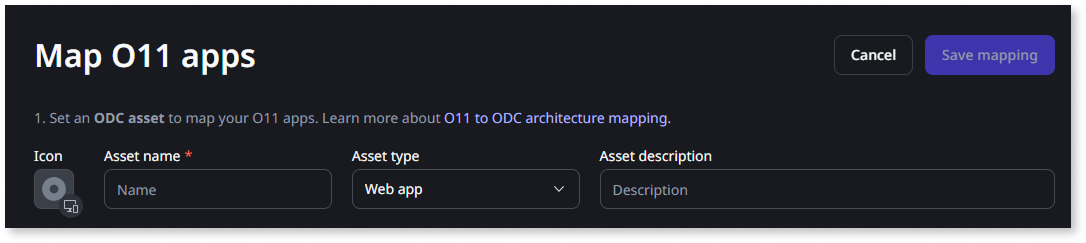
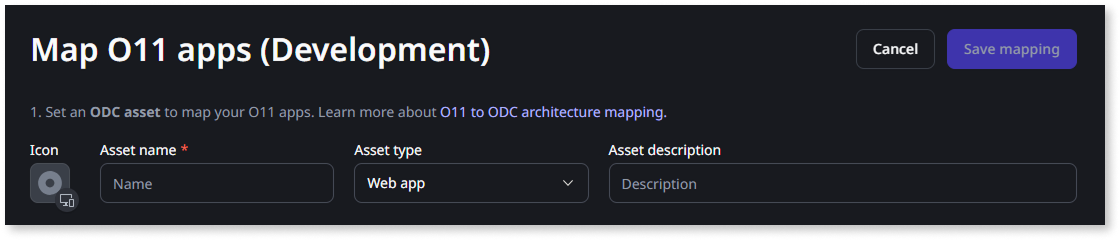
Progressive MAT small improvements and fixes TK-16567

diff --git a/src/migration-to-odc/plan/plan-map-apps.md b/src/migration-to-odc/plan/plan-map-apps.md
@@ -102,40 +102,38 @@ After adapting your O11 architecture, you are ready to start using the Migration
 
 ![Diagram showing the Map O11 apps to ODC architecture step in the migration process.](images/prep-map-o11-odc-arch-diag.png "Map O11 apps to ODC architecture")
 
-Now, it’s time to define each of the future ODC Assets (apps and libraries) and map your O11 apps in the Migration Assessment Tool. The mapping is always based on the O11 Apps available in your Development Environment.
+Now, it’s time to define each of the future ODC Assets (apps and libraries) and map your O11 apps in the Migration Assessment Tool.
 
 <div class="info" markdown="1">
 
+* The mapping is always based on the O11 Apps available in your **Development Environment**.
 * Currently, you can’t map an O11 **Extension** into any ODC Asset type.
-* For **ODC Libraries**, you can only map O11 Apps that only contain O11 Library Modules. Make sure you convert all O11 Modules of O11 Apps you want to map to an ODC Library to O11 Library Modules.
+* For **ODC Libraries**, you can only map O11 Apps that contain only O11 Library Modules. Thus, for the O11 Apps that you want to map to an ODC Library, make sure you convert all O11 Modules to O11 Library Modules.
 
 </div>
 
 To map your O11 Apps into ODC Assets, follow these steps:
 
-1. In the Assessment Tool, create each of the future ODC Apps and Libraries, and map them to your O11 apps. For now you aren't able to map Extensions. Do the following:
+1. Log into the Migration Assessment Tool console (`https://<mat_console_environment>/MigrationAssessment/`) using your IT User credentials.
 
-    1. Log into the Migration Assessment Tool console (`https://<mat_console_environment>/MigrationAssessment/`) using your IT User credentials.
+1. In the **ODC Blueprint** tab, click **Map O11 apps (Development)**.
 
-    1. In the **ODC Blueprint** tab, select Map O11 apps.
+1. Create an ODC asset to map your O11 apps:
+    * Set the **Asset name**. Make sure you follow the [ODC naming best practices](https://www.outsystems.com/tk/redirect?g=4f33c44e-316d-43b3-9929-221138d053be)
+    * Set the **Asset type**.
+    * Optionally, set the **Asset description**.
 
-    1. Create an ODC asset to map your O11 apps:
-        * Set the **Asset name**. Make sure you follow the [ODC naming best practices](https://www.outsystems.com/tk/redirect?g=4f33c44e-316d-43b3-9929-221138d053be)
-        * Set the **Asset type**.
-        * Optionally, set the **Asset description**.
+    ![Create ODC asset for O11 mapping in the Migration Assessment Tool.](images/map-o11-to-odc-set-asset-at.png "Create ODC asset for O11 mapping")
 
-        ![Create ODC asset for O11 mapping in the Migration Assessment Tool.](images/map-o11-to-odc-set-asset-at.png "Create ODC asset for O11 mapping")
+    <div class="info" markdown="1">
 
+    The Icon is inherited from the first O11 app you map in the next step.
 
-        <div class="info" markdown="1">
+    </div>
 
-        The Icon is inherited from the first O11 app you map in the next step.
+1. Select all the O11 apps that you want to map to your ODC asset.
 
-        </div>
-
-    1. Select all the O11 apps that you want to map to your ODC asset.
-
-    1. Click **Save mapping**.
+1. Click **Save mapping**.
 
 Every time you create or update a mapping, the Migration Assessment Tool automatically queues an assessment for that asset. When the assessment finishes, you can go through the report to [assess the app architecture and ODC readiness](plan-assess-refactor.md) for that ODC asset.
 
